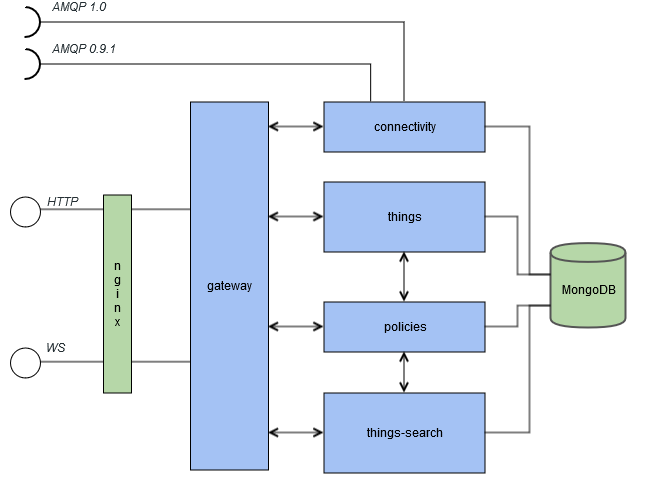
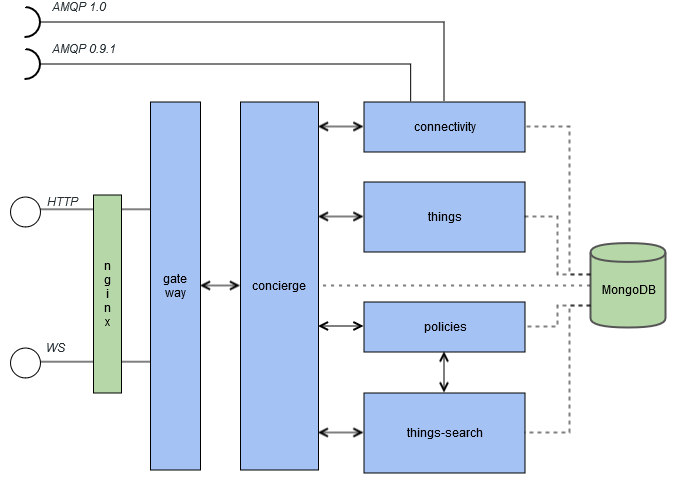
added concierge service to Ditto documentation

diff --git a/documentation/src/main/resources/pages/ditto/architecture-services-concierge.md b/documentation/src/main/resources/pages/ditto/architecture-services-concierge.md
@@ -1,0 +1,37 @@
+---
+title: Concierge service
+keywords: architecture, service, concierge
+tags: [architecture]
+permalink: architecture-services-concierge.html
+---
+
+The "concierge" service is responsible for **orchestrating** the backing persistence services and for performing
+**authorization** of [commands](basic-signals-command.html) and [command responses](basic-signals-commandresponse.html).
+
+It acts as a gatekeeper and entry point for other services providing APIs:
+* [gateway](architecture-services-gateway.html)
+* [connectivity](architecture-services-connectivity.html)
+
+Those services do not need to be aware of authorization and routing of messages in the cluster.
+
+## Model
+
+The concierge service has no model by its own, but uses the model of all the services it orchestrates.
+
+## Signals
+
+The concierge service has no signals by its own, but uses the signals of all the services it orchestrates.
+
+## Persistence
+
+The concierge service uses [Akka persistence](https://doc.akka.io/docs/akka/current/persistence.html?language=java) and 
+with that [Event sourcing](basic-signals.html#architectural-style) in order to persist changes to 
+and restore persisted batch commands.
+
+## Tasks
+
+* accept any [commands](basic-signals-command.html), [command responses](basic-signals-commandresponse.html)
+  and [events](basic-signals-event.html) of all orchestrated services
+* apply [authorization](basic-auth.html) to those, reply with authorization failures if the caller had no permission
+  to execute a command 
+* delegate authorized commands/responses/events to the orchestrated services where they are processed

diff --git a/documentation/src/main/resources/pages/ditto/architecture-overview.md b/documentation/src/main/resources/pages/ditto/architecture-overview.md
@@ -21,7 +21,8 @@ The components have the following tasks:
 * [Things](architecture-services-things.html): persistence of [Things](basic-thing.html) and [Features](basic-feature.html)
 * [Things-Search](architecture-services-things-search.html): tracking changes to `Things`, `Features`, `Policies` and 
   updating an optimized search index + executes queries on this search index
-* [Gateway](architecture-services-gateway.html): provides HTTP and WebSocket API and orchestrates the backing persistence services
+* [Concierge](architecture-services-concierge.html): orchestrates and authorizes the backing persistence services
+* [Gateway](architecture-services-gateway.html): provides HTTP and WebSocket API
 * [Connectivity](architecture-services-connectivity.html): connects to AMQP 1.0 endpoints (e.g. [Eclipse Hono](https://eclipse.org/hono/))
   or AMQP 0.9.1 endpoints (e.g. RabbitMQ) and consumes messages in [Ditto Protocol](protocol-overview.html) from it or transforms
   messages into Ditto Protocol

diff --git a/documentation/src/main/resources/pages/ditto/architecture-services-gateway.md b/documentation/src/main/resources/pages/ditto/architecture-services-gateway.md
@@ -6,15 +6,15 @@ permalink: architecture-services-gateway.html
 ---
 
 The "gateway" service is responsible for providing Ditto's [HTTP](httpapi-overview.html) + 
-[WebSocket](httpapi-protocol-bindings-websocket.html) API and **orchestrating** the backing persistence services.
+[WebSocket](httpapi-protocol-bindings-websocket.html) API.
 
 ## Model
 
-The gateway service has no model by its own, but uses the model of all the services it orchestrates.
+The gateway service has no model by its own, but uses the model of all the services it provides the HTTP + WebSocket API for.
 
 ## Signals
 
-The gateway service has no signals by its own, but uses the signals of all the services it orchestrates.
+The gateway service has no signals by its own, but uses the signals of all the services it provides the HTTP + WebSocket API for.
 
 ## Persistence
 

diff --git a/documentation/src/main/resources/pages/ditto/architecture-services-connectivity.md b/documentation/src/main/resources/pages/ditto/architecture-services-connectivity.md
@@ -40,8 +40,8 @@ Other services can communicate with the connectivity service via:
 ## Persistence
 
 The connectivity service uses [Akka persistence](https://doc.akka.io/docs/akka/current/persistence.html?language=java) and 
-with that [Event sourcing](basic-signals.html#architectural-style) in order to persist changes 
-and restore persisted entities.
+with that [Event sourcing](basic-signals.html#architectural-style) in order to persist changes to 
+and restore persisted [connections](basic-connections.html).
 
 ## Tasks
 

diff --git a/documentation/src/main/resources/pages/ditto/architecture-services-policies.md b/documentation/src/main/resources/pages/ditto/architecture-services-policies.md
@@ -27,6 +27,6 @@ Other services can communicate with the policies service via:
 ## Persistence
 
 The policies service uses [Akka persistence](https://doc.akka.io/docs/akka/current/persistence.html?language=java) and 
-with that [Event sourcing](http://localhost:4000/basic-signals.html#architectural-style) in order to persist changes 
-and restore persisted entities.
+with that [Event sourcing](basic-signals.html#architectural-style) in order to persist changes to  
+and restore persisted [policies](basic-policy.html).
 

diff --git a/documentation/src/main/resources/pages/ditto/architecture-services-things.md b/documentation/src/main/resources/pages/ditto/architecture-services-things.md
@@ -25,6 +25,6 @@ Other services can communicate with the things service via:
 ## Persistence
 
 The things service uses [Akka persistence](https://doc.akka.io/docs/akka/current/persistence.html?language=java) and 
-with that [Event sourcing](http://localhost:4000/basic-signals.html#architectural-style) in order to persist changes 
-and restore persisted entities.
+with that [Event sourcing](basic-signals.html#architectural-style) in order to persist changes to 
+and restore persisted [things](basic-thing.html).
 
